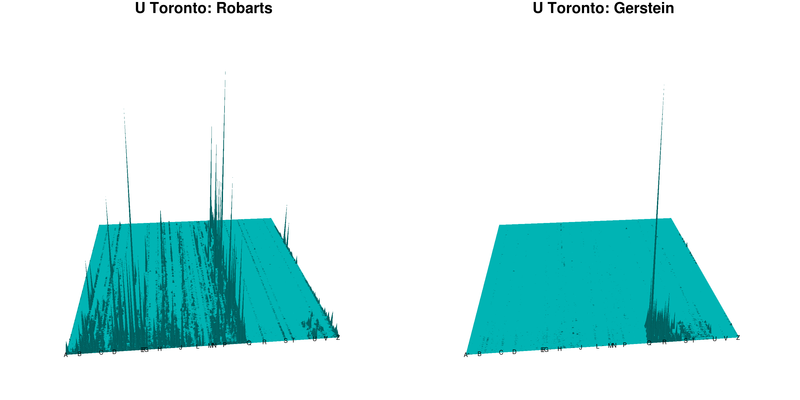
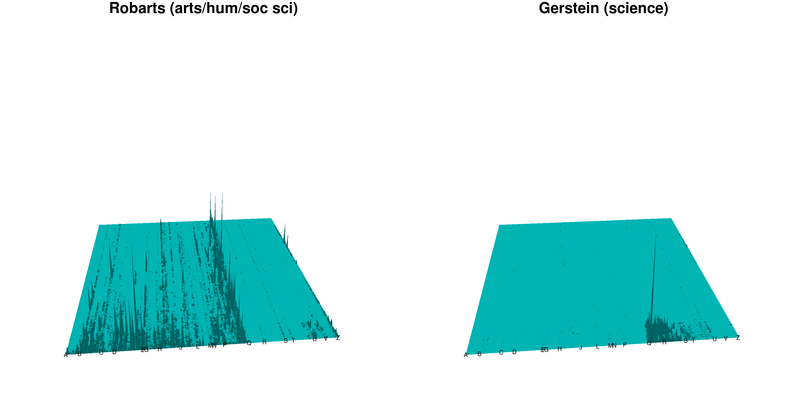
Refreshed the mountain section, changed mountain example at beginning

diff --git a/dentograph-paper.html b/dentograph-paper.html
@@ -20,13 +20,11 @@ A dentograph is a compact visualization of a library's holding, built on the ide
 
 <p>When you know that both libraries use the <a href="http://dewey.info/">Dewey Decimal Classification</a>, and that the hundreds digit is shown along the x-axis and the tens along the y-axis, so that the colour of the square at (8,1) shows how many items are the <a href="http://dewey.info/class/81/2009/08/about.en">810s</a> (American literature in English), you know even more about the TPL's collection of this subject and how much it outweighs SFPL's. </p>
 
-<p>Later I will describe is mountain dentographs, best used for the Library of Congress Classification.  They look like a series of mountain ranges, with one line of mountains per LC class letter.  Here is a comparison of the library collections of three Canadian universities: the University of Toronto, York University, and the University of Prince Edward Island.</p>
+<p>Later I will describe is mountain dentographs, best used for the Library of Congress Classification.  They look like a series of mountain ranges, with one line of mountains per LC class letter.  Here is a comparison of the collections of two branches of Canada's largest university library system, at the University of Toronto:</p>
 
-<p><img src="images/mountain-comparison-horizontal-smaller.png" alt="Mountain dentographs of U Toronto, York U and U Prince Edward Island" title="Mountain dentographs of U Toronto, York U and U Prince Edward Island" /></p>
+<p><a href="images/utoronto-branches.png"><img src="images/utoronto-branches-smaller.png" alt="Comparison of mountain dentographs of U Toronto branches Robarts and Gerstein" title="Mountain dentographs of U Toronto branches Robarts and Gerstein" /></a></p>
 
-<p>!!!TODO Regenerate with bigger titles and visible letters.</p>
-
-<p class="caption">Figure 2. Mountain dentographs of U Toronto, York U and U Prince Edward Island libraries</p>
+<p class="caption">Figure 2. Mountain dentographs of two U Toronto branches: Robarts (arts, humanities and social sciences) and Gerstein (science)</p>
 
 <p>!!!TODO Handle Gabriel's comment: "Also, members of the committee grew more interested in the article as we discussed among ourselves the practical applications of dentograms for libraries -- especially within a consortial context, where one could use these visualizations to compare and attempt to dovetail collections. I'm sure you've envisioned a number of other uses well. Because dentograms are a new idea, I think we'll catch the eyes of more readers if we're explicit about ways in which they're (and problems they solve) up front, then get into the tech nitty-gritty afterward."</p>
 
@@ -428,7 +426,7 @@ for (i in 1:nrow(xpoints)) {
 
 <h2>Comparing branches</h2>
 
-<p><a href="http://www.library.utoronto.ca/">University of Toronto Libraries</a> is a large system, with over fifty branches. The two biggest are Robarts, for arts, humanities and social sciences, and Gerstein, for science.  Comparing those two will show how starkly different their holdings are.</p>
+<p><a href="http://www.library.utoronto.ca/">University of Toronto Libraries</a> is a large system, with over fifty branches. The two biggest are Robarts (holding arts, humanities and social sciences) and Gerstein (science).  Comparing those two will show how starkly different their holdings are.</p>
 
 <p>First we'll grep the Robarts and Gerstein holdings from the full list.  Then we need to make sure <code>dentograph.R</code> knows the proper scale of the z-axis to suit these collections. The classic <code>sort | uniq -c | sort -rn</code> pipeline on Robarts and Gerstein holdings shows us that the highest number of holdings at one call number is just under 10,000 in both branches, and that's what the script has in the version in the repository, so it is set to be used.</p>
 
@@ -438,10 +436,10 @@ $ sort utoronto-robarts-call-number.txt | uniq -c | sort -rn | head -1
     9574 PG 3476
 $ sort utoronto-gerstein-call-number.txt | uniq -c | sort -rn | head -1
     9482 QA 76  
-$ convert-lc-to-numbers.rb utoronto-robarts-call-number.txt &gt; utoronto-robarts-mountain-data.txt
-$ convert-lc-to-numbers.rb utoronto-gerstein-call-number.txt &gt; utoronto-gerstein-mountain-data.txt
-$ dentograph.R utoronto-robarts-mountain-data.txt utoronto-robarts-mountain.png "U Toronto: Robarts"
-$ dentograph.R utoronto-gerstein-mountain-data.txt utoronto-gerstein-mountain.png "U Toronto: Gerstein"
+$ ruby convert-lc-to-numbers.rb utoronto-robarts-call-number.txt &gt; utoronto-robarts-mountain-data.txt
+$ ruby convert-lc-to-numbers.rb utoronto-gerstein-call-number.txt &gt; utoronto-gerstein-mountain-data.txt
+$ dentograph.R utoronto-robarts-mountain-data.txt utoronto-robarts-mountain.png "Robarts (arts/hum/soc sci)"
+$ dentograph.R utoronto-gerstein-mountain-data.txt utoronto-gerstein-mountain.png "Gerstein (science)"
 $ convert +append utoronto-robarts-mountain.png utoronto-gerstein-mountain.png utoronto-branches.png
 </code></pre>
 
@@ -453,20 +451,21 @@ $ convert +append utoronto-robarts-mountain.png utoronto-gerstein-mountain.png u
 
 <h2>Comparing libraries</h2>
 
-<p>Next we'll use an R script to compare the U Toronto collection to the libraries of two other Canadian universities, York University and the University of Prince Edward Island. (Neither library collection is in the Internet Archive, but call number files for both are in the repository.)  </p>
+<p>Finally, let's compare the U Toronto collection to the libraries of two other Canadian universities, York University and the University of Prince Edward Island. (Neither library collection is in the Internet Archive, but call number files for both are in the repository.)  </p>
 
-<p>After running the script on the three sets of data you can view each dentograph on its own as a large image. Two ImageMagick commands will put them together into the smaller side-by-side comparison seen in the introduction.</p>
+<p>The maximum value in U Toronto's holdings is 19,748 (this can be found with a <code>sort | uniq | sort</code> as above), so you will need to edit <code>dentograph.R</code> to change the <code>zlim</code> value to 20,000 to force the z-axis to be the same in all graphs. If you don't edit it, some spikes will run out the top of the dentographs.</p>
 
-<p>The maximum value in U Toronto's holdings is 19,748, so we'll force the graph to go to 20,000 on the z-axis, regardless of a library's holdings. </p>
-
-<pre><code>$ dentograph.R utoronto-mountain-data.txt utoronto-mountain-scaled.png "U Toronto"
-$ dentograph.R york-mountain-data.txt york-mountain-scaled.png "York"
-$ dentograph.R upei-mountain-data.txt upei-mountain-scaled.png "U PEI"
-$ convert +append utoronto-mountain-scaled.png york-mountain-scaled.png upei-mountain-scaled.png mountain-comparison-horizontal.png
-$ convert -resize 800 mountain-comparison-horizontal.png mountain-comparison-horizontal-smaller.png
+<pre><code>$ gunzip york-call-number.txt.gz upei-call-number.txt.gz
+$ ruby convert-lc-to-numbers.rb york-call-number.txt &gt; york-mountain-data.txt
+$ ruby convert-lc-to-numbers.rb upei-call-number.txt &gt; upei-mountain-data.txt
+$ dentograph.R utoronto-mountain-data.txt utoronto-mountain.png "U Toronto"
+$ dentograph.R york-mountain-data.txt york-mountain.png "York U"
+$ dentograph.R upei-mountain-data.txt upei-mountain.png "U PEI"
+$ convert +append utoronto-mountain.png york-mountain.png upei-mountain.png mountain-comparison.png
+$ convert -resize 800 mountain-comparison.png mountain-comparison-smaller.png
 </code></pre>
 
-<p><img src="images/mountain-comparison-horizontal-smaller.png" alt="Mountain dentographs of U Toronto, York U and U Prince Edward Island" title="Mountain dentographs of U Toronto, York U and U Prince Edward Island" /></p>
+<p><a href="images/mountain-comparison.png"><img src="images/mountain-comparison-smaller.png" alt="Mountain dentographs of U Toronto, York U and U Prince Edward Island" title="Mountain dentographs of U Toronto, York U and U Prince Edward Island" /></a></p>
 
 <p class="caption">Figure 10. U Toronto, York U and U PEI compared</p>
 

diff --git a/index.html b/index.html
@@ -33,13 +33,11 @@ A dentograph is a compact visualization of a library's holding, built on the ide
 
 <p>When you know that both libraries use the <a href="http://dewey.info/">Dewey Decimal Classification</a>, and that the hundreds digit is shown along the x-axis and the tens along the y-axis, so that the colour of the square at (8,1) shows how many items are the <a href="http://dewey.info/class/81/2009/08/about.en">810s</a> (American literature in English), you know even more about the TPL's collection of this subject and how much it outweighs SFPL's. </p>
 
-<p>Later I will describe is mountain dentographs, best used for the Library of Congress Classification.  They look like a series of mountain ranges, with one line of mountains per LC class letter.  Here is a comparison of the library collections of three Canadian universities: the University of Toronto, York University, and the University of Prince Edward Island.</p>
+<p>Later I will describe is mountain dentographs, best used for the Library of Congress Classification.  They look like a series of mountain ranges, with one line of mountains per LC class letter.  Here is a comparison of the collections of two branches of Canada's largest university library system, at the University of Toronto:</p>
 
-<p><img src="images/mountain-comparison-horizontal-smaller.png" alt="Mountain dentographs of U Toronto, York U and U Prince Edward Island" title="Mountain dentographs of U Toronto, York U and U Prince Edward Island" /></p>
+<p><a href="images/utoronto-branches.png"><img src="images/utoronto-branches-smaller.png" alt="Comparison of mountain dentographs of U Toronto branches Robarts and Gerstein" title="Mountain dentographs of U Toronto branches Robarts and Gerstein" /></a></p>
 
-<p>!!!TODO Regenerate with bigger titles and visible letters.</p>
-
-<p class="caption">Figure 2. Mountain dentographs of U Toronto, York U and U Prince Edward Island libraries</p>
+<p class="caption">Figure 2. Mountain dentographs of two U Toronto branches: Robarts (arts, humanities and social sciences) and Gerstein (science)</p>
 
 <p>!!!TODO Handle Gabriel's comment: "Also, members of the committee grew more interested in the article as we discussed among ourselves the practical applications of dentograms for libraries -- especially within a consortial context, where one could use these visualizations to compare and attempt to dovetail collections. I'm sure you've envisioned a number of other uses well. Because dentograms are a new idea, I think we'll catch the eyes of more readers if we're explicit about ways in which they're (and problems they solve) up front, then get into the tech nitty-gritty afterward."</p>
 
@@ -441,7 +439,7 @@ for (i in 1:nrow(xpoints)) {
 
 <h2>Comparing branches</h2>
 
-<p><a href="http://www.library.utoronto.ca/">University of Toronto Libraries</a> is a large system, with over fifty branches. The two biggest are Robarts, for arts, humanities and social sciences, and Gerstein, for science.  Comparing those two will show how starkly different their holdings are.</p>
+<p><a href="http://www.library.utoronto.ca/">University of Toronto Libraries</a> is a large system, with over fifty branches. The two biggest are Robarts (holding arts, humanities and social sciences) and Gerstein (science).  Comparing those two will show how starkly different their holdings are.</p>
 
 <p>First we'll grep the Robarts and Gerstein holdings from the full list.  Then we need to make sure <code>dentograph.R</code> knows the proper scale of the z-axis to suit these collections. The classic <code>sort | uniq -c | sort -rn</code> pipeline on Robarts and Gerstein holdings shows us that the highest number of holdings at one call number is just under 10,000 in both branches, and that's what the script has in the version in the repository, so it is set to be used.</p>
 
@@ -451,10 +449,10 @@ $ sort utoronto-robarts-call-number.txt | uniq -c | sort -rn | head -1
     9574 PG 3476
 $ sort utoronto-gerstein-call-number.txt | uniq -c | sort -rn | head -1
     9482 QA 76  
-$ convert-lc-to-numbers.rb utoronto-robarts-call-number.txt &gt; utoronto-robarts-mountain-data.txt
-$ convert-lc-to-numbers.rb utoronto-gerstein-call-number.txt &gt; utoronto-gerstein-mountain-data.txt
-$ dentograph.R utoronto-robarts-mountain-data.txt utoronto-robarts-mountain.png "U Toronto: Robarts"
-$ dentograph.R utoronto-gerstein-mountain-data.txt utoronto-gerstein-mountain.png "U Toronto: Gerstein"
+$ ruby convert-lc-to-numbers.rb utoronto-robarts-call-number.txt &gt; utoronto-robarts-mountain-data.txt
+$ ruby convert-lc-to-numbers.rb utoronto-gerstein-call-number.txt &gt; utoronto-gerstein-mountain-data.txt
+$ dentograph.R utoronto-robarts-mountain-data.txt utoronto-robarts-mountain.png "Robarts (arts/hum/soc sci)"
+$ dentograph.R utoronto-gerstein-mountain-data.txt utoronto-gerstein-mountain.png "Gerstein (science)"
 $ convert +append utoronto-robarts-mountain.png utoronto-gerstein-mountain.png utoronto-branches.png
 </code></pre>
 
@@ -466,20 +464,21 @@ $ convert +append utoronto-robarts-mountain.png utoronto-gerstein-mountain.png u
 
 <h2>Comparing libraries</h2>
 
-<p>Next we'll use an R script to compare the U Toronto collection to the libraries of two other Canadian universities, York University and the University of Prince Edward Island. (Neither library collection is in the Internet Archive, but call number files for both are in the repository.)  </p>
+<p>Finally, let's compare the U Toronto collection to the libraries of two other Canadian universities, York University and the University of Prince Edward Island. (Neither library collection is in the Internet Archive, but call number files for both are in the repository.)  </p>
 
-<p>After running the script on the three sets of data you can view each dentograph on its own as a large image. Two ImageMagick commands will put them together into the smaller side-by-side comparison seen in the introduction.</p>
+<p>The maximum value in U Toronto's holdings is 19,748 (this can be found with a <code>sort | uniq | sort</code> as above), so you will need to edit <code>dentograph.R</code> to change the <code>zlim</code> value to 20,000 to force the z-axis to be the same in all graphs. If you don't edit it, some spikes will run out the top of the dentographs.</p>
 
-<p>The maximum value in U Toronto's holdings is 19,748, so we'll force the graph to go to 20,000 on the z-axis, regardless of a library's holdings. </p>
-
-<pre><code>$ dentograph.R utoronto-mountain-data.txt utoronto-mountain-scaled.png "U Toronto"
-$ dentograph.R york-mountain-data.txt york-mountain-scaled.png "York"
-$ dentograph.R upei-mountain-data.txt upei-mountain-scaled.png "U PEI"
-$ convert +append utoronto-mountain-scaled.png york-mountain-scaled.png upei-mountain-scaled.png mountain-comparison-horizontal.png
-$ convert -resize 800 mountain-comparison-horizontal.png mountain-comparison-horizontal-smaller.png
+<pre><code>$ gunzip york-call-number.txt.gz upei-call-number.txt.gz
+$ ruby convert-lc-to-numbers.rb york-call-number.txt &gt; york-mountain-data.txt
+$ ruby convert-lc-to-numbers.rb upei-call-number.txt &gt; upei-mountain-data.txt
+$ dentograph.R utoronto-mountain-data.txt utoronto-mountain.png "U Toronto"
+$ dentograph.R york-mountain-data.txt york-mountain.png "York U"
+$ dentograph.R upei-mountain-data.txt upei-mountain.png "U PEI"
+$ convert +append utoronto-mountain.png york-mountain.png upei-mountain.png mountain-comparison.png
+$ convert -resize 800 mountain-comparison.png mountain-comparison-smaller.png
 </code></pre>
 
-<p><img src="images/mountain-comparison-horizontal-smaller.png" alt="Mountain dentographs of U Toronto, York U and U Prince Edward Island" title="Mountain dentographs of U Toronto, York U and U Prince Edward Island" /></p>
+<p><a href="images/mountain-comparison.png"><img src="images/mountain-comparison-smaller.png" alt="Mountain dentographs of U Toronto, York U and U Prince Edward Island" title="Mountain dentographs of U Toronto, York U and U Prince Edward Island" /></a></p>
 
 <p class="caption">Figure 10. U Toronto, York U and U PEI compared</p>
 
